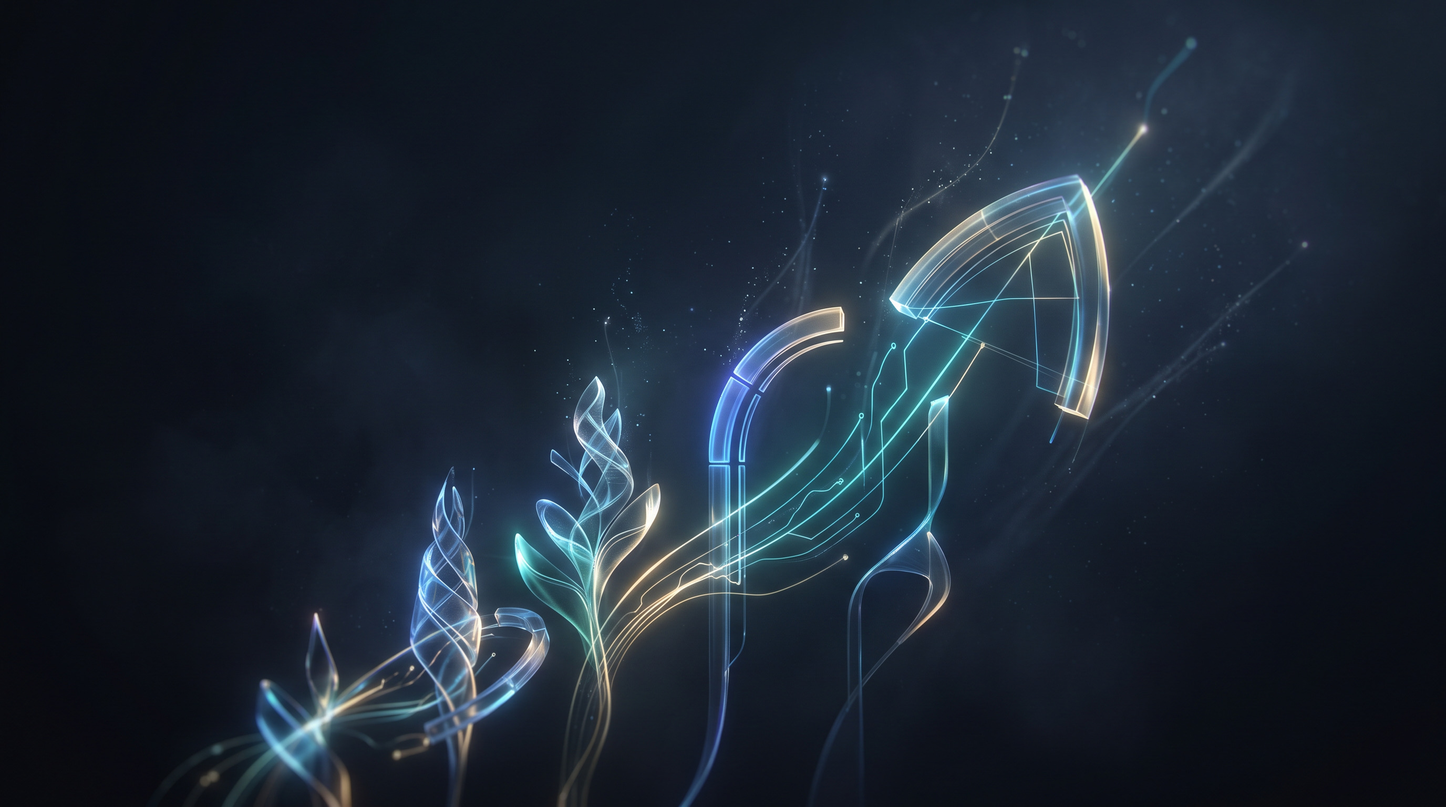
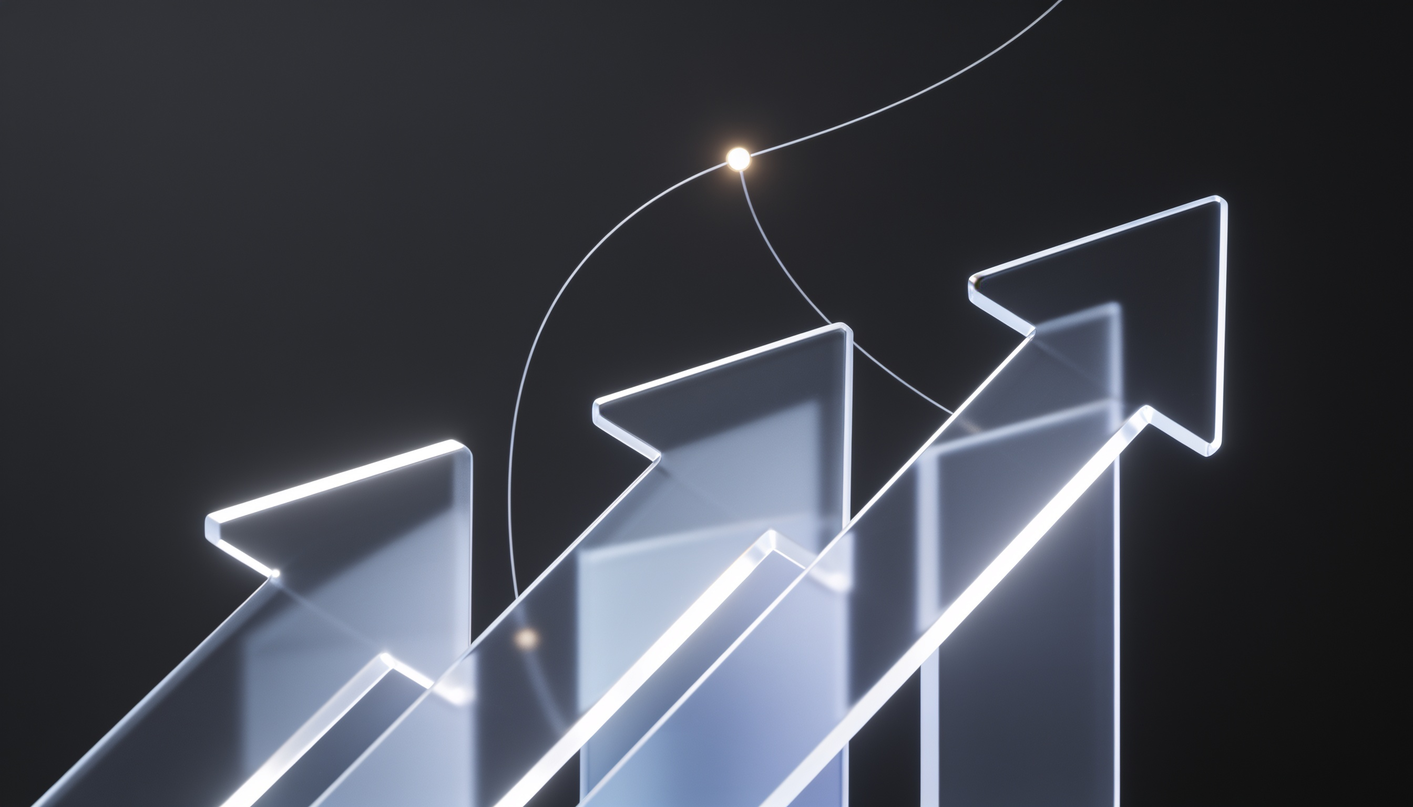
event added, partners cut

diff --git a/app/components/StatementSection.vue b/app/components/StatementSection.vue
@@ -1,17 +1,67 @@
+<script setup lang="ts">
+const section = ref<HTMLElement>()
+
+// масштаб фона: 1.14 при входе секции → 1.1 при полном проходе
+const SCALE_FROM = 1.16
+const SCALE_TO = 1.1
+
+let ticking = false
+
+function update() {
+  ticking = false
+  const el = section.value
+  if (!el) return
+
+  const rect = el.getBoundingClientRect()
+  const vh = window.innerHeight
+  // 0 — секция коснулась нижней границы вьюпорта,
+  // 1 — нижняя граница секции ушла за верхнюю
+  const progress = Math.min(1, Math.max(0, (vh - rect.top) / (vh + rect.height)))
+  const scale = SCALE_FROM + (SCALE_TO - SCALE_FROM) * progress
+  el.style.setProperty('--stmt-scale', scale.toFixed(4))
+}
+
+function requestTick() {
+  if (!ticking) {
+    ticking = true
+    requestAnimationFrame(update) // одно измерение и одна запись на кадр
+  }
+}
+
+onMounted(() => {
+  // при reduced-motion оставляем статичный масштаб
+  if (matchMedia('(prefers-reduced-motion: reduce)').matches) return
+  // в браузерах с нативным scroll-driven CSS эффект делает .stmt-zoom из main.css
+  if (CSS.supports('animation-timeline: view()')) return
+
+  update() // стартовое значение сразу — корректно и при перезагрузке в середине страницы
+  window.addEventListener('scroll', requestTick, { passive: true })
+  window.addEventListener('resize', requestTick, { passive: true })
+})
+
+onUnmounted(() => {
+  window.removeEventListener('scroll', requestTick)
+  window.removeEventListener('resize', requestTick)
+})
+</script>
+
 <template>
-  <section class="group/stmt relative grid min-h-[92vh] place-items-center overflow-hidden py-27.5">
+  <section
+    ref="section"
+    class="group/stmt relative grid min-h-[92vh] place-items-center overflow-hidden py-27.5 [--stmt-scale:1.16]"
+  >
     <DuotoneImage
-      src="images/landscape.jpg"
+      src="images/004.jpg"
       alt=""
       blend="multiply"
-      wrapper-class="absolute inset-0"
-      img-class="scale-[1.14] grayscale brightness-[0.82] blur-[16px] group-hover/stmt:scale-[1.22]"
+      wrapper-class="absolute inset-0 scale-(--stmt-scale) [will-change:scale] stmt-zoom"
+      img-class="grayscale brightness-[0.62] group-hover/stmt:scale-[1.07]"
     />
-    <div aria-hidden="true" class="absolute inset-0 bg-[#160550]/45" />
+    <div aria-hidden="true" class="absolute inset-0 bg-accent/45" />
 
     <div class="wrap relative z-2">
       <p v-reveal class="mb-7 text-[0.74rem] font-bold uppercase tracking-[0.22em] text-canvas/70">Слово организатора</p>
-      <blockquote v-reveal="100" class="max-w-[24ch] text-balance font-display text-[clamp(1.75rem,4.2vw,3rem)] font-medium leading-tight tracking-[-0.015em] text-canvas">
+      <blockquote v-reveal="100" class="max-w-[24ch] text-balance font-display text-[clamp(1.75rem,4.2vw,3rem)] font-medium leading-relaxed md:leading-tight tracking-[-0.015em] text-canvas">
         “Сильная партнерская экосистема строится там, где вендор и партнер понимают цели друг друга, открыто обсуждают сложности и вместе создают новые точки роста.”
       </blockquote>
       <p v-reveal="180" class="mt-8 text-[0.95rem] text-canvas/70"> Филипп Ковригин — Директор по работе с партнерами</p>

diff --git a/app/components/SurveyForm.vue b/app/components/SurveyForm.vue
@@ -1,4 +1,6 @@
 <script setup lang="ts">
+import { downloadICS, type IcsEvent, fullDay } from '~/utils/calendar'
+
 
 </script>
 
@@ -12,13 +14,21 @@
                     Пройдите опрос
                 </p>
 
-                <div class="text-canvas/80">Мы хотим лучше понять ваши ожидания и включить в программу темы, которые действительно важны партнерам.</div>
+                <div class="text-canvas/80">Мы хотим лучше понять ваши ожидания и&nbsp;включить в программу темы, которые действительно важны партнерам.</div>
                 <AppButton to="https://forms.yandex.ru/cloud/6ac8fe7449af47806aeb7e94" variant="light" size="md" class="mt-6"
                     >Пройти опрос <Icon name="lucide:arrow-right" class="size-4"
                 /></AppButton>
                 <p class="mt-4 text-[0.8rem] text-canvas/55">
                     После прохождения опроса вы будете автоматически зарегистрированны.
                 </p>
+                        <button
+          type="button"
+          class="mt-6.5 inline-flex items-center gap-2 rounded-full border border-white/40 bg-transparent px-4.25 py-2.5 text-[0.85rem] font-semibold text-canvas transition-colors duration-300 hover:bg-white/10 hover:cursor-pointer"
+          @click="downloadICS(fullDay)"
+        >
+          <Icon name="lucide:download" class="size-3.5" />Добавить событие в календарь
+        </button>
+
             </div>
         </Transition>
     </div>

diff --git a/app/components/ContactSection.vue b/app/components/ContactSection.vue
@@ -5,8 +5,9 @@
   <section id="contact" class="scroll-mt-21.5 py-[clamp(96px,13vh,160px)]">
     <div class="wrap">
       <div v-reveal class="relative overflow-hidden rounded-[34px] bg-primary p-[clamp(24px,4vw,84px)] text-canvas">
-        <span aria-hidden="true" class="absolute -right-37.5 -top-37.5 size-115 animate-orbit-slow rounded-full border border-white/15 before:absolute before:left-1/2 before:-top-1 before:size-2 before:-translate-x-1/2 before:rounded-full before:bg-white/60" />
-        <span aria-hidden="true" class="absolute -bottom-47.5 -left-32.5 size-100 rounded-full bg-white/5 blur-md" />
+        <span aria-hidden="true" class="absolute -right-37.5 -top-37.5 size-115 animate-orbit-dot-2 rounded-full border border-white/15 before:absolute before:left-1/2 before:-top-1 before:size-2 before:-translate-x-1/2 before:rounded-full before:bg-canvas/60" />
+        <span aria-hidden="true" class="absolute -right-37.5 -top-37.5 size-115 animate-orbit-dot-1 rounded-full border border-white/15 before:absolute before:left-1/2 before:-top-1 before:size-2 before:-translate-x-1/2 before:rounded-full before:bg-white/40" />
+        <span aria-hidden="true" class="absolute -bottom-47.5 -left-32.5 size-120 rounded-full bg-accent/60 blur-2xl" />
 
         <div class="relative z-1 grid gap-[clamp(40px,6vw,90px)] lg:grid-cols-[1.05fr_0.95fr]">
           <div>

diff --git a/app/components/FeatureCard.vue b/app/components/FeatureCard.vue
@@ -38,7 +38,7 @@ function onMove(e: MouseEvent) {
   >
     <div
       aria-hidden="true"
-      class="pointer-events-none absolute inset-0 bg-[radial-gradient(480px_circle_at_var(--mx,50%)_var(--my,50%),rgba(68,19,217,0.07),transparent_65%)] opacity-0 transition-opacity duration-500 group-hover/card:opacity-100"
+      class="pointer-events-none absolute inset-0 bg-[radial-gradient(480px_circle_at_var(--mx,50%)_var(--my,50%),rgba(68,19,217,0.1),transparent_65%)] opacity-0 transition-opacity duration-500 group-hover/card:opacity-100"
     />
 
     <DuotoneImage
@@ -63,7 +63,7 @@ function onMove(e: MouseEvent) {
         <span
           v-for="t in tags"
           :key="t"
-          class="rounded-full border border-hairline px-3.25 py-1.5 text-[0.72rem] font-medium text-muted"
+          class="rounded-full border bg-white border-hairline px-3.25 py-1.5 text-[0.72rem] font-medium text-muted"
         >{{ t }}</span>
       </div>
     </div>

diff --git a/app/components/HeroSection.vue b/app/components/HeroSection.vue
@@ -25,8 +25,8 @@
       </div>
 
       <div v-reveal="320" class="mt-14 flex flex-wrap gap-7 text-[0.92rem] text-muted">
-        <span class="inline-flex items-center gap-2"><Icon name="lucide:calendar" class="size-4 text-primary" />27 ноября 2026</span>
-        <span class="inline-flex items-center gap-2"><Icon name="lucide:map-pin" class="size-4 text-primary" />Офис &laquo;AXENIX&raquo;, Москва, Павелецкая площадь, 2/2, Future Camp, 8 этаж</span>
+        <span class="inline-flex items-center gap-2"><Icon name="lucide:calendar" class="w-4! h-4! shrink-0  text-primary" />27 ноября 2026</span>
+        <span class="inline-flex items-center gap-2"><Icon name="lucide:map-pin" class="w-4! h-4! shrink-0 text-primary" />Офис &laquo;AXENIX&raquo;, Москва, Павелецкая площадь, 2/2, Future Camp, 8 этаж</span>
       </div>
     </div>
 

diff --git a/app/components/CalendatButton.vue b/app/components/CalendatButton.vue
@@ -1,0 +1,15 @@
+<script setup lang="ts">
+import { downloadICS, type IcsEvent, fullDay } from "~/utils/calendar";
+
+</script>
+
+<template>
+    <button
+        type="button"
+        class="fixed bottom-5.5 right-5.5 z-90 inline-flex items-center gap-2.5 rounded-full border bg-white/78 px-4.25 py-2.5 text-[0.82rem] font-medium backdrop-blur-md transition-all duration-300 hover:-translate-y-px border-primary/40 text-primary hover:border-primary/35 hover:text-accent hover:cursor-pointer"
+        @click="downloadICS(fullDay)"
+    >
+        <Icon name="lucide:calendar-plus" size="16" />
+        <span>Добавить в календарь</span>
+    </button>
+</template>

diff --git a/app/components/SiteNav.vue b/app/components/SiteNav.vue
@@ -22,7 +22,7 @@ onBeforeUnmount(() => window.removeEventListener('scroll', onScroll))
     class="fixed inset-x-0 top-0 z-70 flex items-center justify-between gap-5 border-b px-[clamp(20px,4vw,44px)] transition-[padding,background-color,border-color] duration-300 ease-soft"
     :class="scrolled ? 'border-hairline bg-canvas/80 py-3 backdrop-blur-[14px]' : 'border-transparent py-5'"
   >
-    <a href="#top" class="flex items-center gap-2.75">
+    <a href="#" class="flex items-center gap-2.75">
       <BrandMark class="h-12" />
     </a>
 

diff --git a/app/assets/css/main.css b/app/assets/css/main.css
@@ -17,6 +17,8 @@
   --animate-orbit: orbit 46s linear infinite;
   --animate-orbit-rev: orbit 72s linear infinite reverse;
   --animate-orbit-slow: orbit 70s linear infinite;
+  --animate-orbit-dot-1: orbit 10s linear infinite;
+  --animate-orbit-dot-2: orbit 20s linear infinite;
 --animate-ripple: ripple 4s cubic-bezier(0.16, 0.6, 0.4, 1) infinite;
   --animate-ripple-late: ripple 4s cubic-bezier(0.16, 0.6, 0.4, 1) 2s infinite;
   --animate-drop: drop 2.2s ease-in-out infinite;

diff --git a/app/utils/event.ts b/app/utils/event.ts
@@ -92,3 +92,4 @@ export const partners = [
   { name: 'Партнер 7', nameClass: 'text-sm font-semibold uppercase tracking-[0.22em]', svg: '<path stroke-linejoin="round" d="M3.5 19L10 6l4 7 2.5-4 4 10z"/>' },
   { name: 'Партнер 8', nameClass: 'text-[1.05rem] font-bold tracking-[-0.01em]', svg: '<circle cx="12" cy="12" r="8"/><circle cx="17.7" cy="6.3" r="1.8" fill="currentColor" stroke="none"/>' },
 ]
+

diff --git a/app/utils/calendar.ts b/app/utils/calendar.ts
@@ -32,3 +32,10 @@ export function downloadICS(ev: IcsEvent) {
   a.remove()
   setTimeout(() => URL.revokeObjectURL(url), 3000)
 }
+
+export const fullDay = {
+    title: "KS Partners Day 2026",
+    start: "20261127T103000",
+    end: "20261127T180000",
+    location: "Офис AXENIX\, Павелецкая площадь\ ,2/2\, Future Camp\, 8 этаж",
+};

diff --git a/app/pages/index.vue b/app/pages/index.vue
@@ -18,5 +18,6 @@ useSeoMeta({
     <ContactSection />
     <SiteFooter />
     <AppToast />
+    <CalendatButton />
   </main>
 </template>
